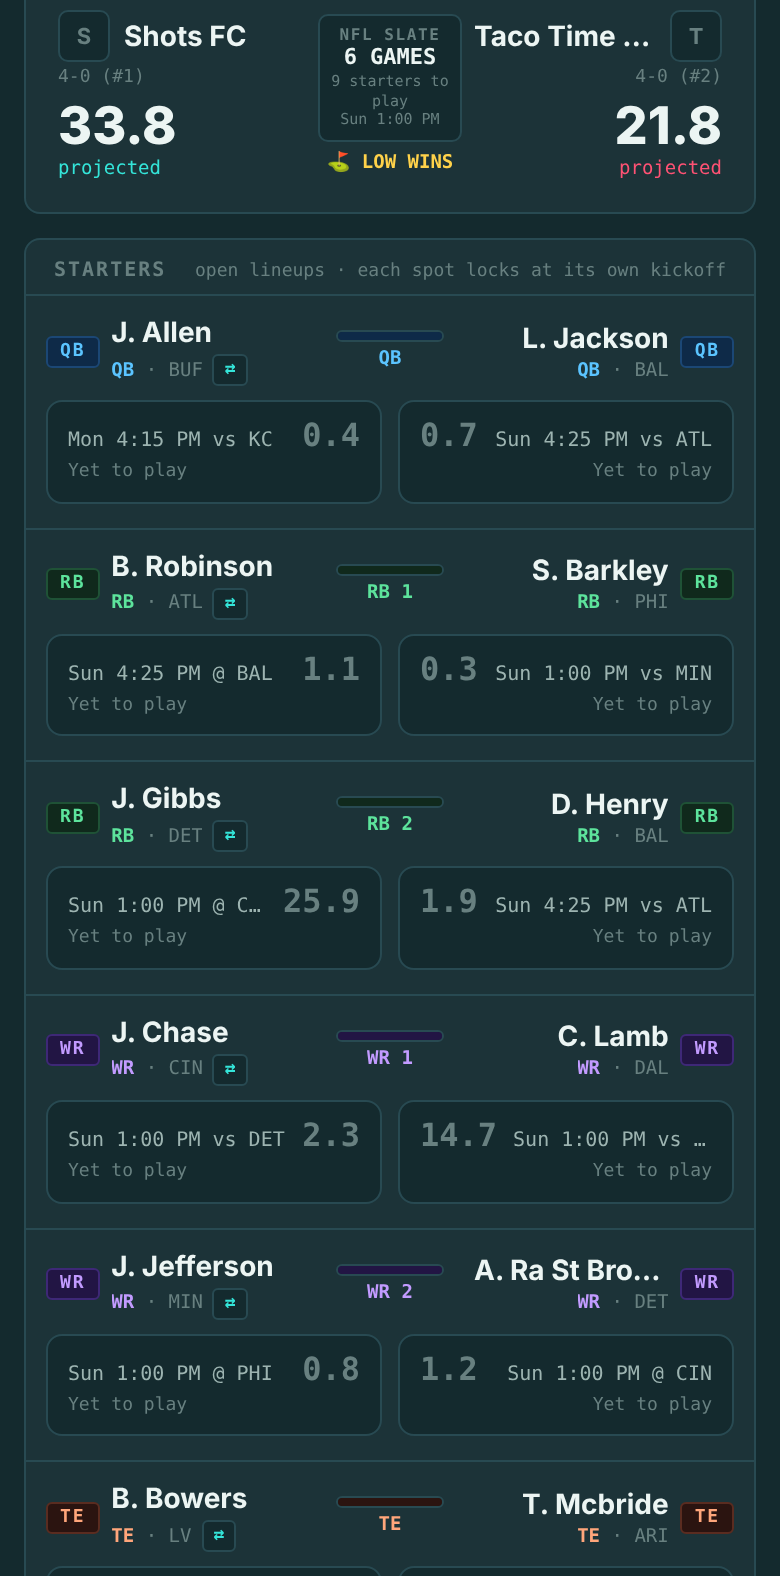
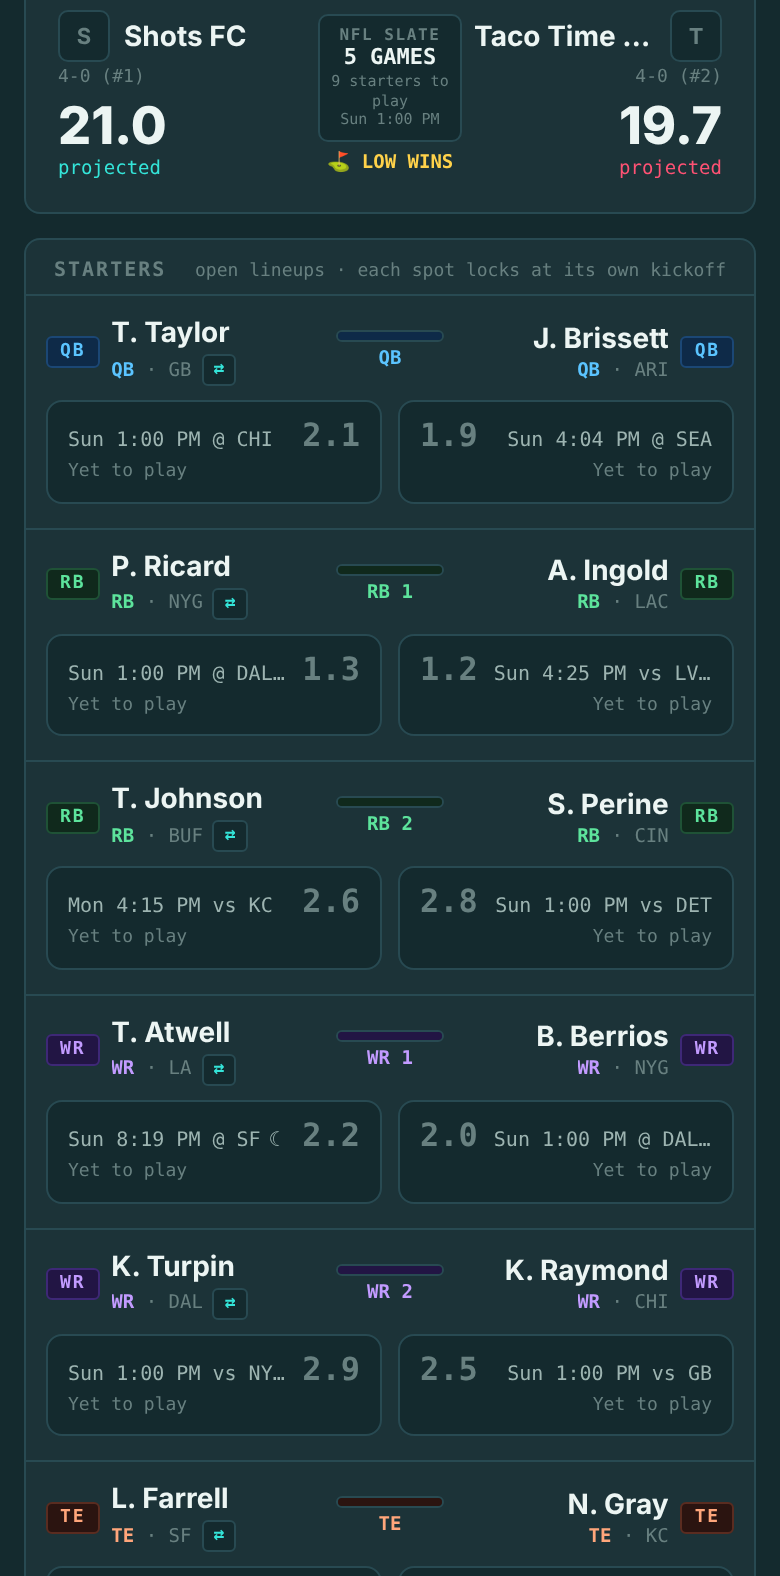
v0.652.0: the front page's chips, trimmed; the screens on 2026 players
Founder: 2026 college players only; golf starters who are real starters
projected a point or two; no emoji on the chips; Redraft/Keeper/Dynasty
as one chip; no K or D/ST on the mixed-college roster; one chip for every
position, opening the roster builder; 2026 rosters on the scoped board;
no "Others" chip.

- LANDING_FEATURES: League types opens on "Redraft · Keeper · Dynasty";
  Positions is "Every position" + "Scoped positions"; no "Others". The
  landing stops drawing the notes' glyphs. check:tagline pins the three.
- The screens: college players from StatHead's devy board (2027 and 2028
  classes); the rookie spot from the 2026 rookie class (Jeremiyah Love,
  ARI; Carnell Tate, TEN); NFL teams checked against the 2026 rosters;
  golf starters are real fullbacks, blocking tight ends, return men and
  backup quarterbacks. The HC-draft screen is retired; positions-roster.png
  (the roster builder with every kind of spot) takes the chip.

Claude-Session: https://claude.ai/code/session_01Ra1P2uYs7L1wujHxgAdth4

diff --git a/packages/core/src/data/leagueTagline.ts b/packages/core/src/data/leagueTagline.ts
@@ -245,9 +245,10 @@ export const FUNNEL_GAMES: FormatNote[] = [
 const note = (list: FormatNote[], name: string): FormatNote => list.find((n) => n.name === name) ?? { name, line: '' };
 export const LANDING_FEATURES: { heading: string; sub: string; notes: FormatNote[] }[] = [
   { heading: 'League types', sub: 'What carries from one season to the next.', notes: [
-    note(CONTINUITY_NOTES, 'Redraft'), note(CONTINUITY_NOTES, 'Dynasty'), note(CONTINUITY_NOTES, 'Keeper'), note(CONTINUITY_NOTES, 'Contract'),
-    // v0.651.0: the college shapes get chips of their own, so every screen on
-    // the card's rail has a chip that opens it.
+    // v0.652.0: the three plain shapes are one chip (founder: "Redraft/Keeper/
+    // Dynasty can all be one chip"); the college shapes (v0.651.0) keep theirs.
+    { name: 'Redraft · Keeper · Dynasty', icon: '🔁', line: 'Start fresh every year, hold a few through the offseason, or keep the lot — rookie drafts each spring and future picks you can trade years ahead.' },
+    note(CONTINUITY_NOTES, 'Contract'),
     { name: 'Full college', icon: '🏟', line: 'No NFL players at all: every spot takes college players and the season runs Saturday by Saturday, on the college calendar.' },
     { name: 'Mixed college', icon: '🔀', line: 'College-only starting spots beside your NFL lineup — college and NFL players score in the same week.' },
     { name: 'Devy', icon: '🎓', line: 'College players on your roster before they’re drafted — as devy spots or as shares bought in a devy market, priced off StatHead’s rankings.' },
@@ -256,16 +257,15 @@ export const LANDING_FEATURES: { heading: string; sub: string; notes: FormatNote
     note(FORMAT_NOTES, 'Vampire'), note(FORMAT_NOTES, 'Guillotine'), note(FORMAT_NOTES, 'Golf'), note(FORMAT_NOTES, 'Bullseye'),
   ] },
   { heading: 'Positions', sub: 'Every spot a lineup can have, on or off per league.', notes: [
-    { name: 'QB · RB · WR · TE', icon: '🏈', line: 'The core lineup, with flex and superflex spots shaped however the commissioner likes.' },
-    { name: 'K · D/ST', icon: '🦵', line: 'Kickers scored by distance, defenses by points allowed, sacks, takeaways and scores.' },
-    { name: 'DL · DE · LB · DB', icon: '🛡', line: 'IDP: defensive linemen, ends, linebackers and backs as real starters, with tackles, sacks and takeaways scored live.' },
-    { name: 'RET · FB · PUNT · HC', icon: '🧢', line: 'Returners scored on returns alone, fullbacks, punters, and head coaches scored on the team’s result.' },
+    // v0.652.0: one chip for the lot (founder: "All positions can just be one
+    // chip that shows the roster builder"); the scoped spot keeps its own.
+    { name: 'Every position', icon: '🏈', line: 'QB, RB, WR, TE, flex and superflex; kickers and defenses; DL, LB and DB for IDP; returners, fullbacks, punters and head coaches — each spot on or off, shaped in the roster builder.' },
     { name: 'Scoped positions', icon: '🎯', line: 'A spot limited to a team, a tenure (rookies, years 2–3, vets) or a position group — "one rookie WR", "a Cowboy every week".' },
   ] },
   { heading: 'Scoring options', sub: 'Knob by knob, or by the rule.', notes: [
     { name: 'Single-spot best ball', icon: '🤖', line: 'Flag any one spot (or all of them) as best ball: it starts the top scorer you didn’t field by hand, after the fact.' },
     { name: 'Scoped bonuses', icon: '✨', line: 'Bonus points or multipliers that apply only to players matching a filter — a team, a position, a tenure — stacked as many as you like.' },
-    { name: 'Others', icon: '🎚', line: 'PPR at any value, TD bonuses, yardage multipliers, turnover penalties, per-metric overrides — every value a switch the commissioner holds.' },
+    // v0.652.0: the "Others" chip is gone (founder) — the knobs live under ⚖ SCORING.
   ] },
   { heading: 'Matchup style', sub: 'The game your week is played in.', notes: [
     note(FUNNEL_GAMES, 'Classic'), note(FUNNEL_GAMES, 'Drip'),

diff --git a/src/screens/Landing.tsx b/src/screens/Landing.tsx
@@ -41,7 +41,7 @@ interface Shot { file: string; label: string; dir?: 'funnel' | 'brand'; chip?: s
  *  Keyed by the feature heading in LANDING_FEATURES. */
 export const FUNNEL_SHOTS: Record<string, Shot[]> = {
   'League types': [
-    { file: 'league-redraft.png', label: 'Redraft · the matchup board', chip: 'Redraft' },
+    { file: 'league-redraft.png', label: 'The matchup board', chip: 'Redraft · Keeper · Dynasty' },
     { file: 'league-contract.png', label: 'Contract · the cap sheet', chip: 'Contract' },
     { file: 'league-full-college.png', label: 'Full college · the matchup board', chip: 'Full college' },
     { file: 'league-mixed-college.png', label: 'Mixed college · two college spots', chip: 'Mixed college' },
@@ -54,8 +54,8 @@ export const FUNNEL_SHOTS: Record<string, Shot[]> = {
     { file: 'mode-bullseye.png', label: 'Bullseye · aim at the number', chip: 'Bullseye' },
   ],
   'Positions': [
+    { file: 'positions-roster.png', label: 'The roster builder', chip: 'Every position' },
     { file: 'positions-scoped.png', label: 'Scoped & named spots', chip: 'Scoped positions' },
-    { file: 'positions-hc-draft.png', label: 'A head-coach draft', chip: 'RET · FB · PUNT · HC' },
   ],
   'Scoring options': [
     { file: 'scoring-bestball-mix.png', label: 'Best ball and set spots, mixed', chip: 'Single-spot best ball' },
@@ -209,7 +209,8 @@ export function Landing() {
                       <button key={n.name} className="mono" aria-pressed={lit} onClick={() => pickChip(n.name)}
                         style={{ fontSize: 10, fontWeight: 700, letterSpacing: '0.05em', padding: '6px 10px', borderRadius: 5, cursor: 'pointer',
                           color: lit ? 'var(--on-accent)' : 'var(--text)', background: lit ? 'var(--you)' : 'var(--bg)', border: `1px solid ${lit ? 'var(--you)' : 'var(--bd)'}` }}>
-                        {n.icon ? <span style={{ marginRight: 5 }}>{n.icon}</span> : null}{n.name.toUpperCase()}
+                        {/* no glyph (v0.652.0, founder: "get rid of the 'this screams AI' icons") */}
+                        {n.name.toUpperCase()}
                       </button>
                     );
                   })}

diff --git a/packages/core/src/version.ts b/packages/core/src/version.ts
@@ -2,7 +2,7 @@
 // Versioning: 3-part semver, pre-1.0. Bump patch per deploy (0.10.1, 0.10.2…),
 // minor for bigger features (0.11, 0.12…). Segments aren't capped at 9, so 1.0
 // is a deliberate choice, not an automatic rollover.
-export const APP_VERSION = 'v0.651.2';
+export const APP_VERSION = 'v0.652.0';
 
 // Stat data + 2025 NFL play-by-play powering this game comes from Stathead.
 export const DATA_SOURCE = { name: 'Stathead', url: 'https://stathead.app' };

diff --git a/public/brand/funnel/README.md b/public/brand/funnel/README.md
@@ -2,7 +2,7 @@
 
 Phone screenshots for the landing's feature cards (v0.650.0).
 
-**What's here now (v0.651.0) are stand-ins**: the in-game screens shot from the
+**What's here now (v0.652.0) are stand-ins**: the in-game screens shot from the
 web app at phone size against fixture data, mark-free (no NFL logos or
 headshots), until the founder's app screenshots replace them. Overwrite file
 for file; the names are fixed. Shoot yours mark-free too (Settings, or
@@ -18,17 +18,17 @@ app header) and keep the thing you're showing in the upper half.
 
 | File | Card | Show |
 |---|---|---|
-| `league-redraft.png` | League types | The classic matchup board, a redraft league |
+| `league-redraft.png` | League types | The classic matchup board (the Redraft · Keeper · Dynasty chip) |
 | `league-contract.png` | League types | The cap sheet: every deal, its salary and years, under the cap |
-| `league-full-college.png` | League types | A matchup board where every spot is a college player, Saturday games |
-| `league-mixed-college.png` | League types | An NFL matchup board with two college spots beside the nine |
+| `league-full-college.png` | League types | A matchup board where every spot is a 2026 college player, Saturday games |
+| `league-mixed-college.png` | League types | An NFL matchup board (no K or D/ST) with two college spots |
 | `league-devy-market.png` | League types | The devy market: prices, stakes, and BUY |
 | `mode-vampire.png` | Competitive modes | The vampire's feeding log: each win and the bite it earned |
 | `mode-guillotine.png` | Competitive modes | The chop report: one finished week on the block, who fell |
-| `mode-golf.png` | Competitive modes | A golf matchup board: LOW WINS, every starter projected near zero |
+| `mode-golf.png` | Competitive modes | A golf matchup board: LOW WINS, real low-usage starters projected a point or two |
 | `mode-bullseye.png` | Competitive modes | A bullseye matchup board: the target per spot and the distance from it |
-| `positions-scoped.png` | Positions | A lineup with an NFC Only spot and a rookie-only superflex that fills itself |
-| `positions-hc-draft.png` | Positions | The draft room with the pool filtered to head coaches |
+| `positions-roster.png` | Positions | The roster builder with every kind of spot (the Every position chip) |
+| `positions-scoped.png` | Positions | A lineup with an NFC Only spot and a rookie-only superflex that fills itself, on 2026 rosters |
 | `scoring-bestball-mix.png` | Scoring options | A matchup board mixing best-ball spots (AUTO) with hand-set ones |
 | `scoring-scoped-bonuses.png` | Scoring options | Scoring → Adjustments: the scoped bonuses |
 

diff --git a/STATUS.md b/STATUS.md
@@ -22,6 +22,32 @@ Near-daily (git shows daily bursts; season launch Sep 9 is the forcing function)
 
 ## Last worked (superseded entries below)
 
+### v0.652.0 — the front page's chips, trimmed; the screens on 2026 players
+
+> - The front page's chips lose their emoji; Redraft, Keeper and Dynasty are one chip; Positions is one chip for every position (it opens the roster builder) plus Scoped positions; the "Others" scoring chip is gone.
+> - The college screens show players in college this season, the golf board real low-usage starters projected a point or two, the mixed-college board has no kicker or defense, and the scoped board's rookie spot holds a 2026 rookie.
+
+Founder: "Let's make sure the college players shown are all 2026 college
+players. The golf guys should be players who are technically starters but
+only projection score a couple points. Let's get rid of the 'this screams
+AI' icons. Redraft/Keeper/Dynasty can all be one chip. For mixed college,
+let's not have dst or k on the roster. All positions can just be one chip
+that shows the roster builder. Scoped positions, let's use 2026 rosters for
+the example. We can drop the 'others' chip."
+
+- `leagueTagline.ts` `LANDING_FEATURES`: League types opens on
+  "Redraft · Keeper · Dynasty"; Positions is "Every position" + "Scoped
+  positions"; no "Others". The notes keep their glyphs for the demo page's
+  builder cards; the landing just stops drawing them. `check:tagline`
+  pins the three.
+- The screens: college players from StatHead's devy board (2027 and 2028
+  classes, so in college in 2026); the rookie spot from the 2026 rookie
+  class (Jeremiyah Love, ARI; Carnell Tate, TEN); every NFL player's team
+  checked against the 2026 rosters; golf starters are real fullbacks,
+  blocking tight ends, return men and backup quarterbacks. The HC-draft
+  screen is retired; `positions-roster.png` (the roster builder with
+  every kind of spot) takes the chip.
+
 ### v0.651.2 — the screens open on the score, and show more of the lineup
 
 > - The front page's screens no longer start with the app's header bar: each opens on the score card, the sheet, or the list, and the frame runs longer so four or five starters show.
